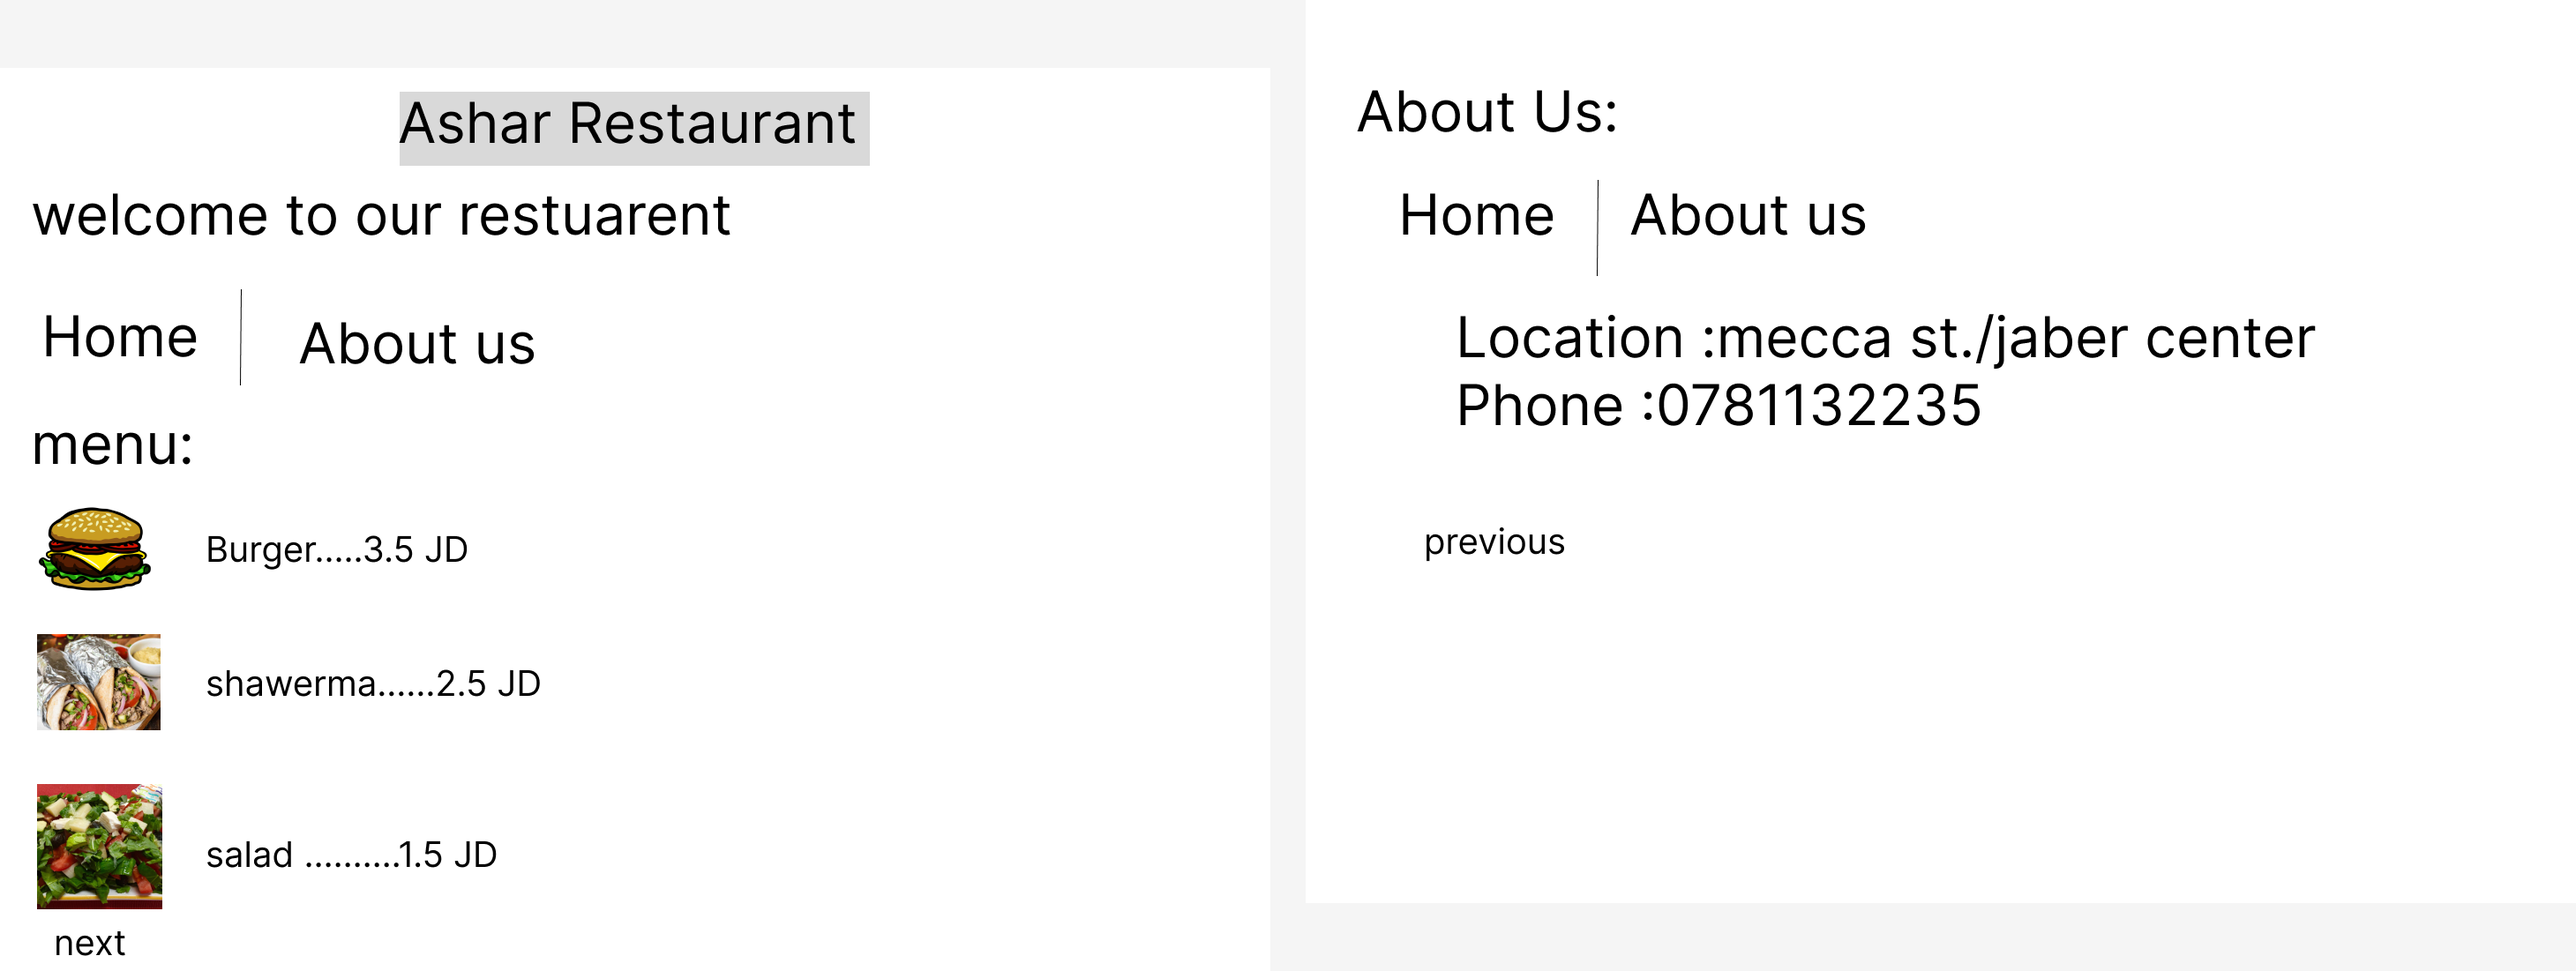
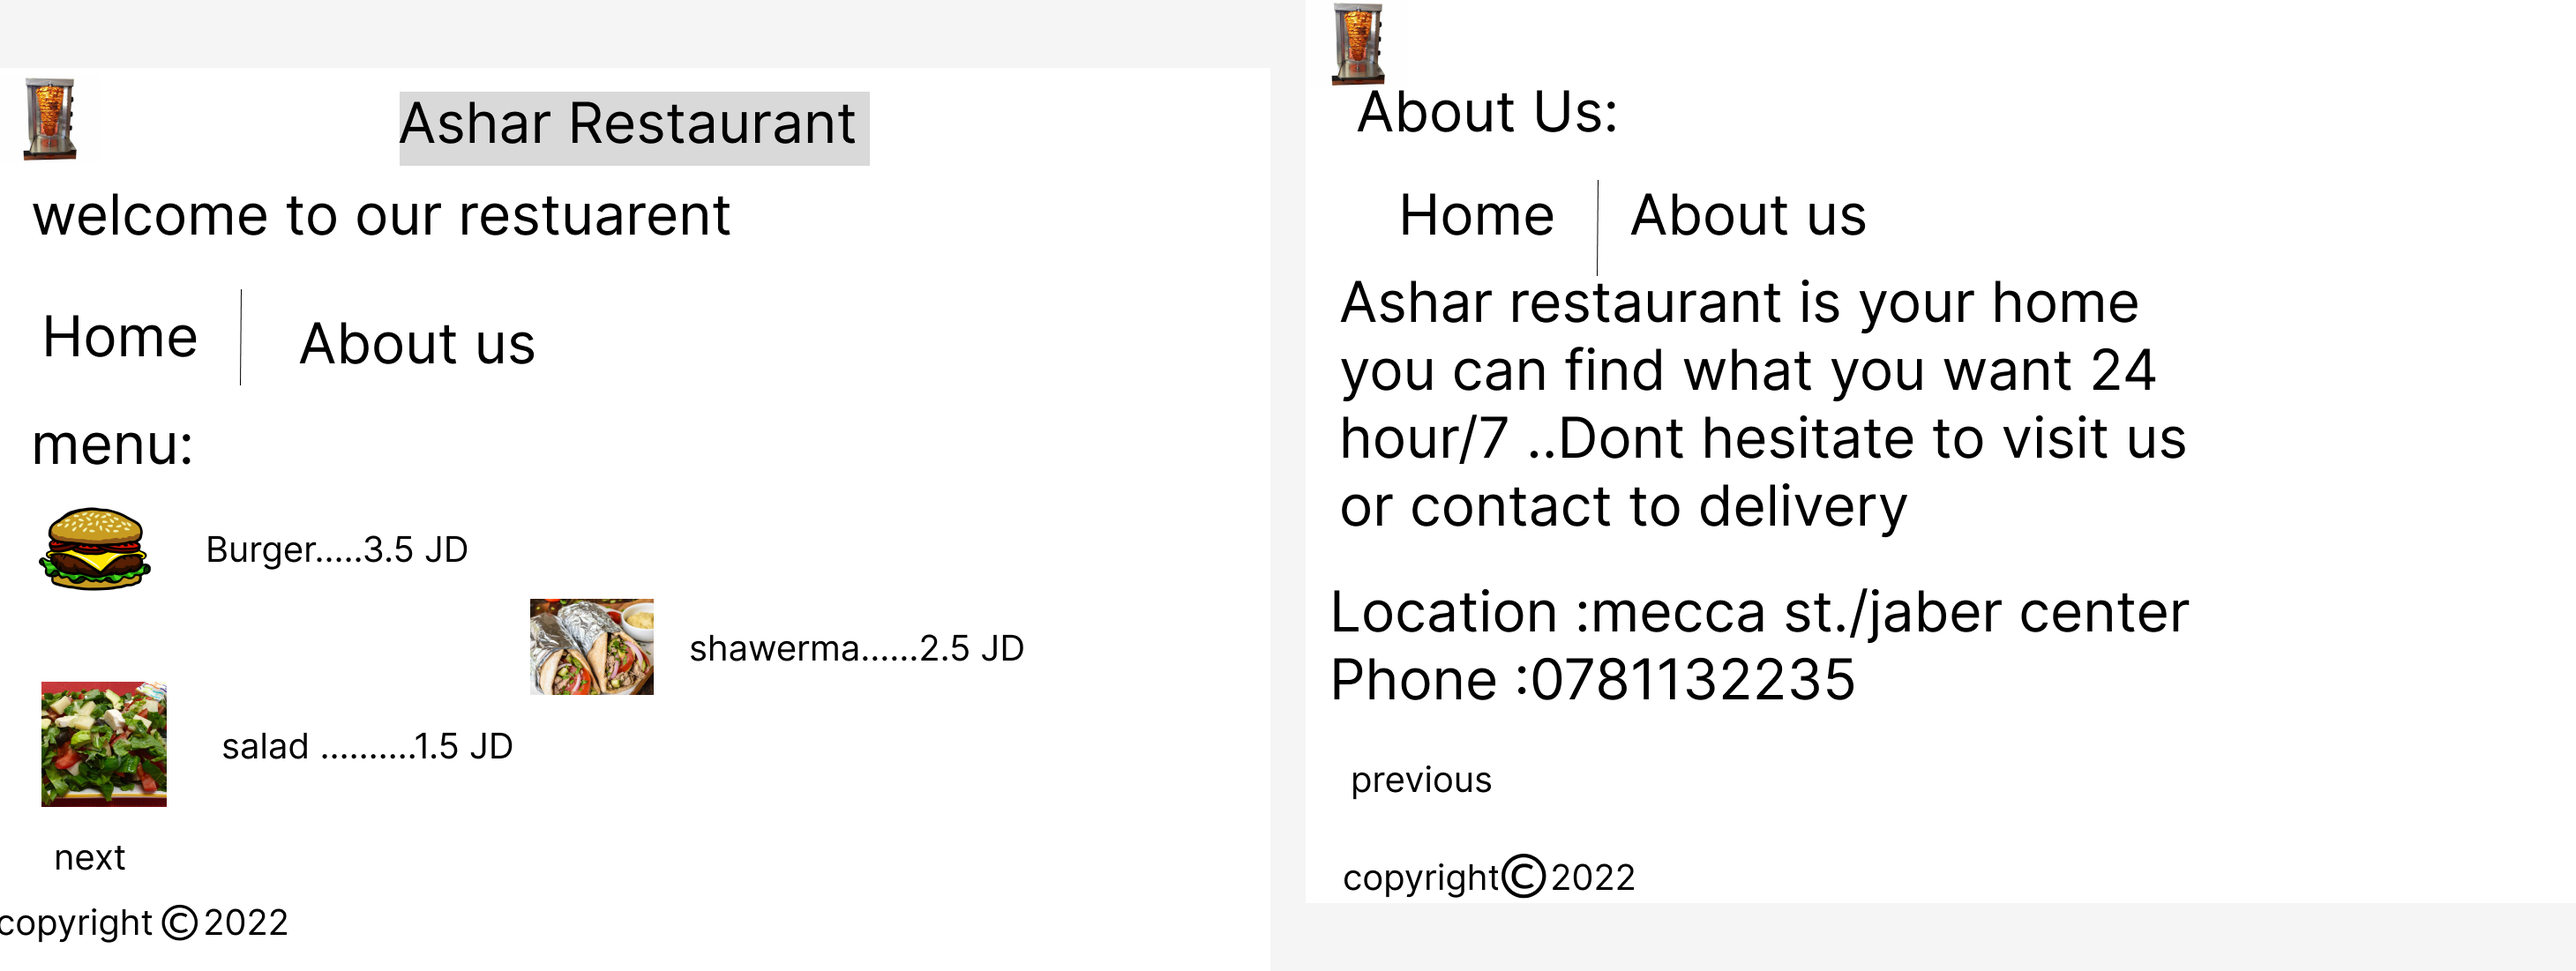
task 4

diff --git a/About us.html b/About us.html
@@ -7,7 +7,9 @@
     <title>About Us</title>
 </head>
 <body>
-    <header><h2>info:</h2>
+    <header>
+        <img src="logo.jpg" alt="logo" width="80 px" length="100"px >
+        <h2>info:</h2>
         <nav>
             <ul>
             <li><a href="./index.html">  Home</li> </a>
@@ -16,11 +18,17 @@
         </nav>
     </header>
     <main>
+        <p>Ashar restaurant is your home, </p>
+         <p>that you can find what you want 24 hour/7 ..</p>
+         <p> Dont hesitate to visit us or contact for delivery  </p>
+
+
         <p><h5>Location : Mecca st./jaber center/second floor</h5></p>
         <p><h5>phone:0781132235</h5></p>
         
     </main>
     <footer>
+        <p>copyright &copy; 2022</p>
         <a href="./index.html">previous</a>
     </footer>
 </body>

diff --git a/index.html b/index.html
@@ -7,7 +7,11 @@
     <title>my-restaurent</title>
 </head>
 <body>
-    <header> <h1>Ashar Restaurent</h1>
+    <header> 
+        <img src="logo.jpg" alt="logo" width="80 px" length="100"px >
+        <h1>Ashar Restaurent</h1>
+         
+        
         <nav>
             <ul>
             <li><a href="./index.html">  Home</li> </a>
@@ -29,6 +33,7 @@
 
 </main>
     <footer>
+        <p>copyright &copy; 2022</p>
        <a href="./About us.html"> <h5>next</h5> </a>
     </footer>
 </body>
